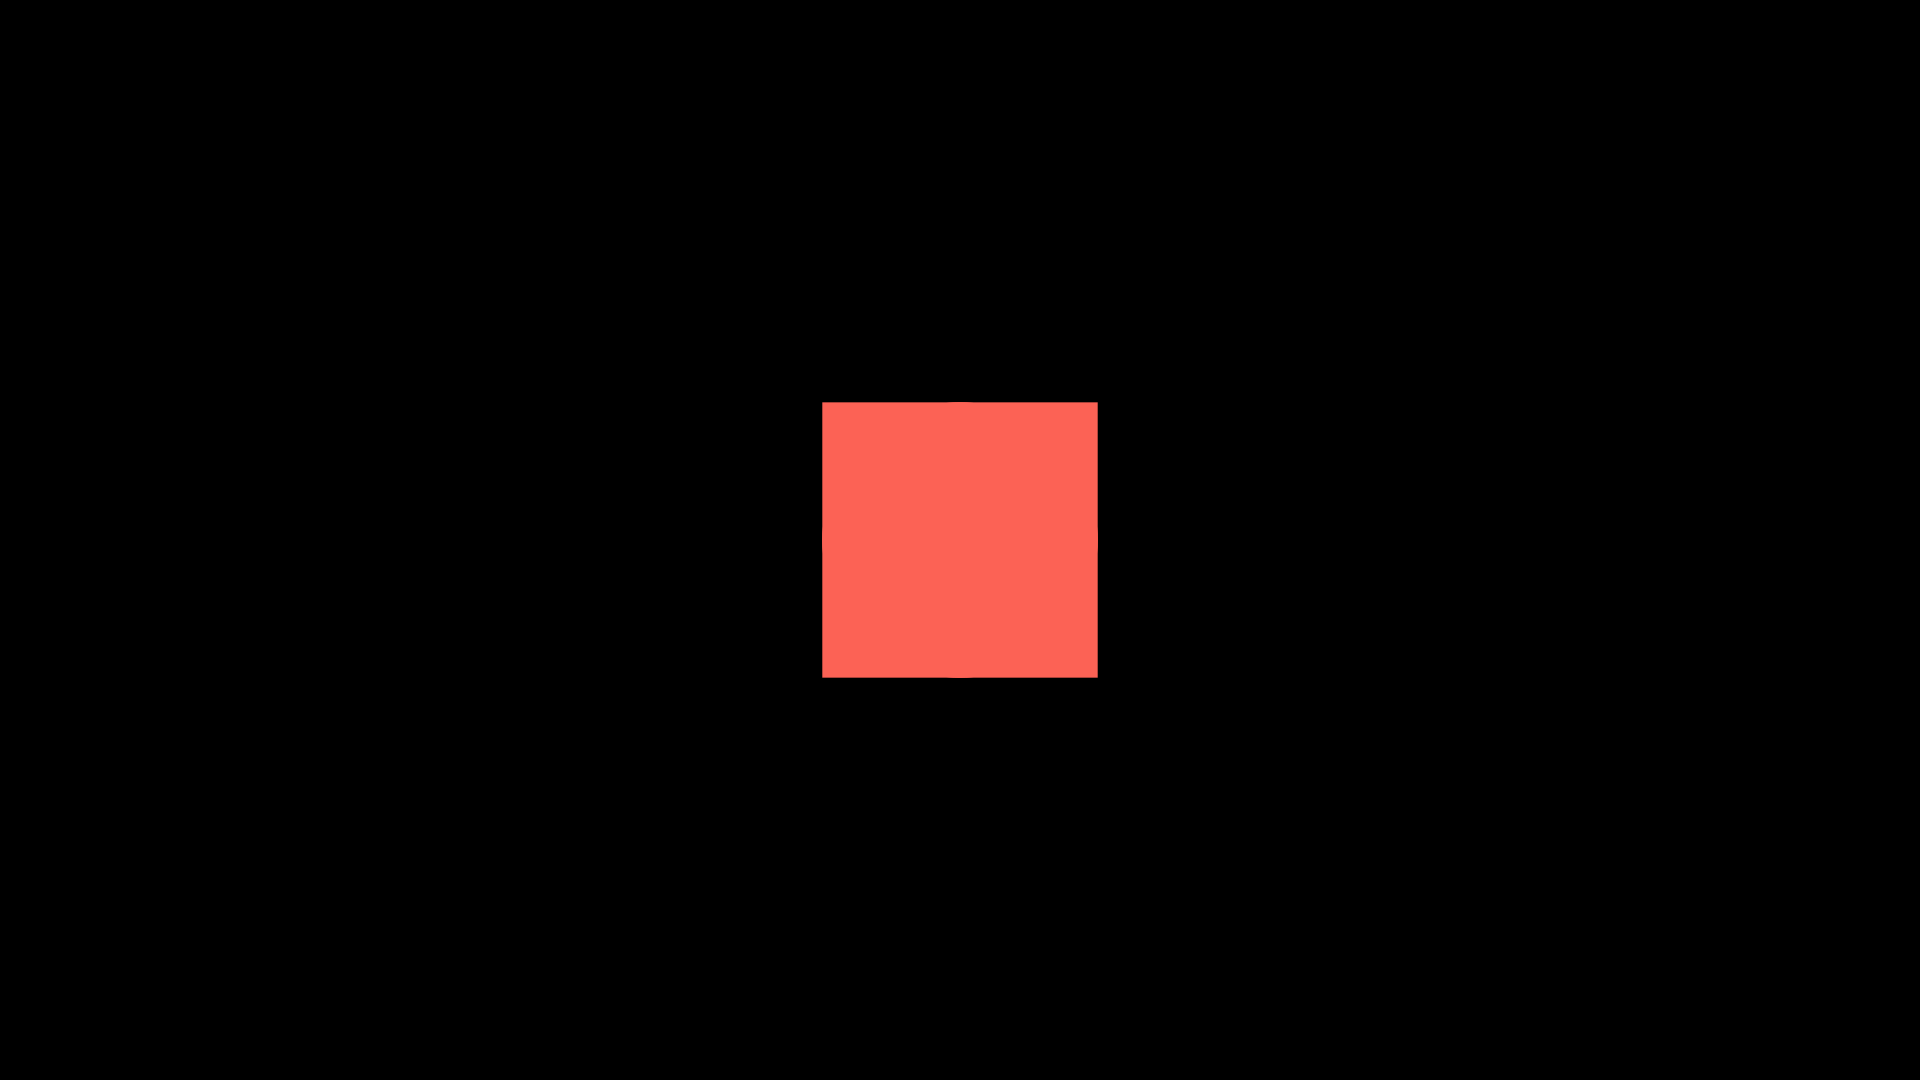
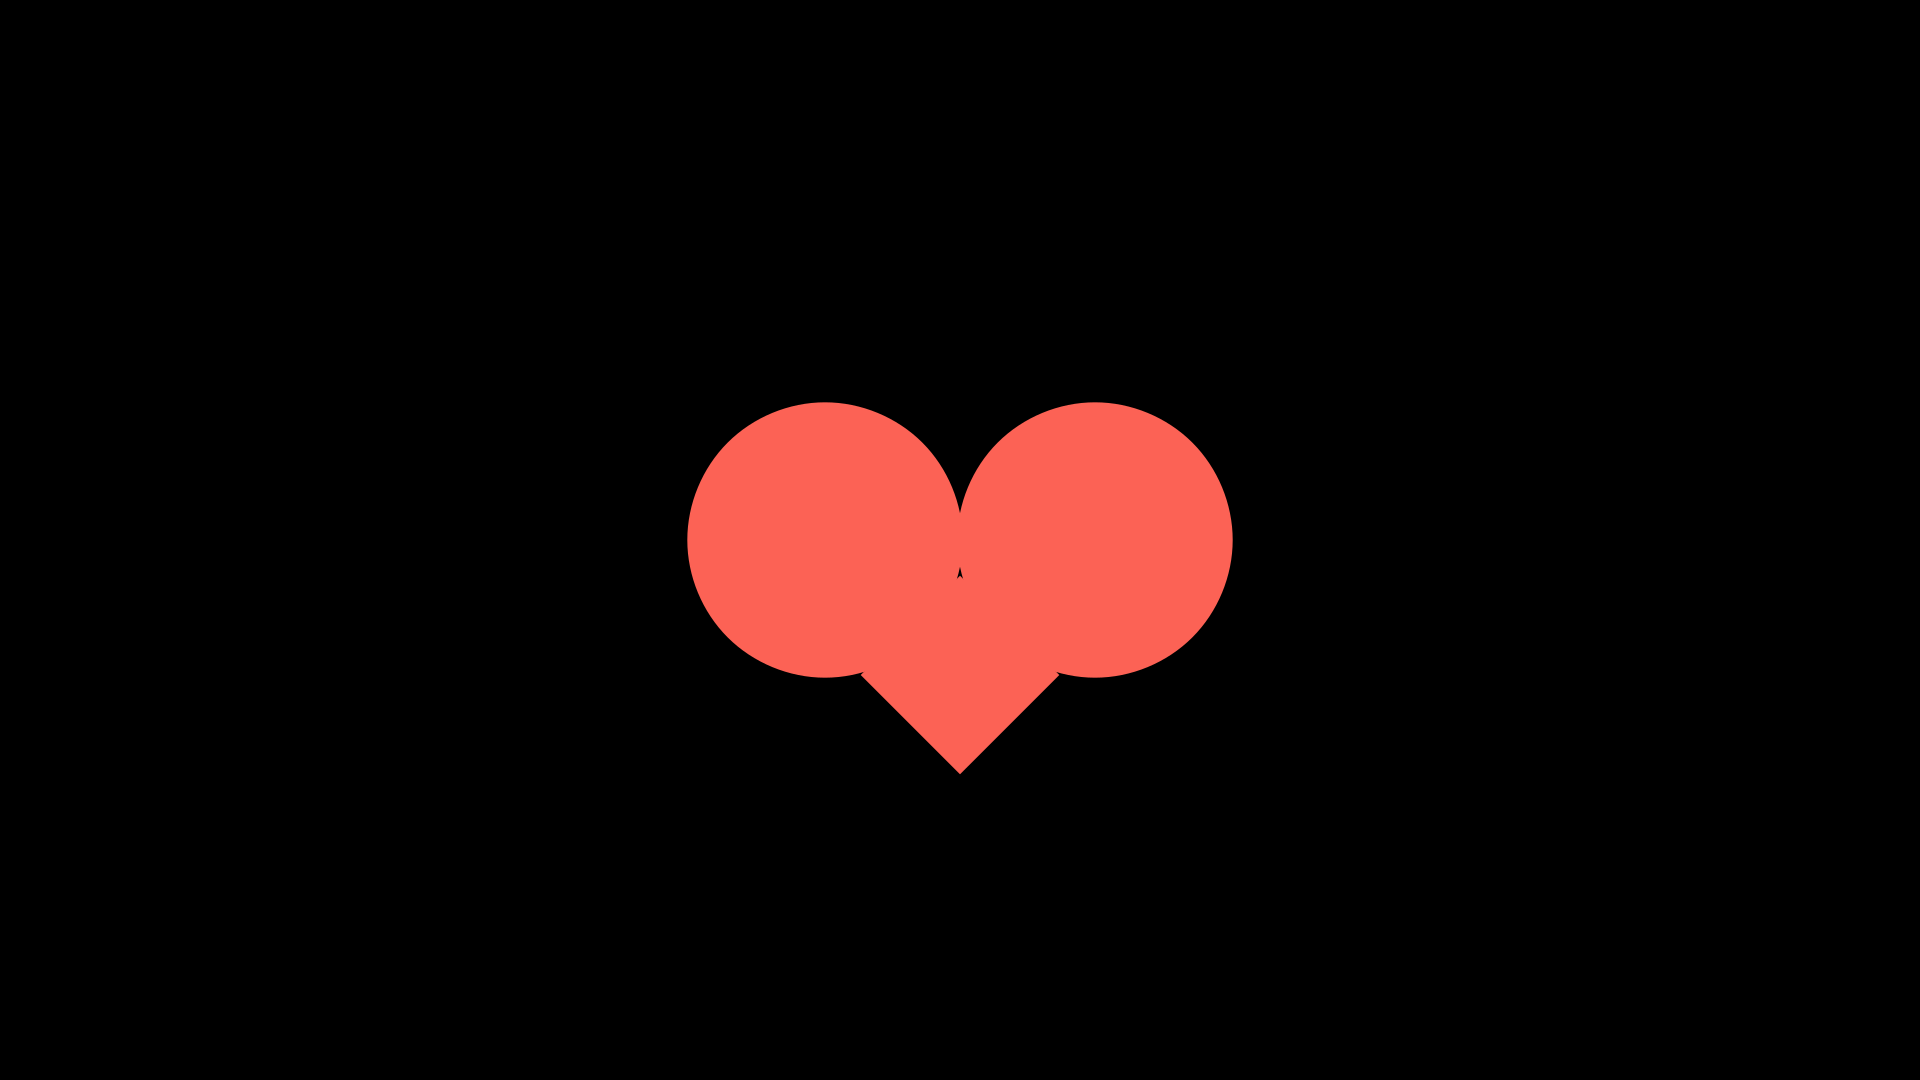
exploring sizes and rotations

Changed region(s): [[0.3438, 0.3667, 0.6562, 0.7028]]

diff --git a/Exercises/EX_03.py b/Exercises/EX_03.py
@@ -4,8 +4,15 @@ class Ex_03(Scene):
 
     def construct(heart):    
         red = {"color": RED, "fill_opacity": 1, "fill_color": RED}
-        l_circle = Circle(**red)
-        r_circle = Circle(**red)
-        square = Square(**red)
 
+        l_circle = Circle(**red).set(height=2)
+        r_circle = Circle(**red).set(height=2)
+        square = Square(**red).set(height=1)
+        rotate = {"angle":-PI/4}
+
+
+        l_circle.shift(LEFT*1)
+        r_circle.shift(RIGHT*1)
+        square.shift(DOWN*1)
+        square.rotate(**rotate)
         heart.add(l_circle, r_circle, square)
